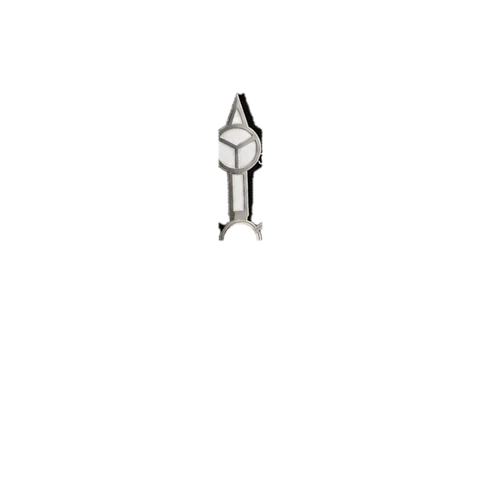
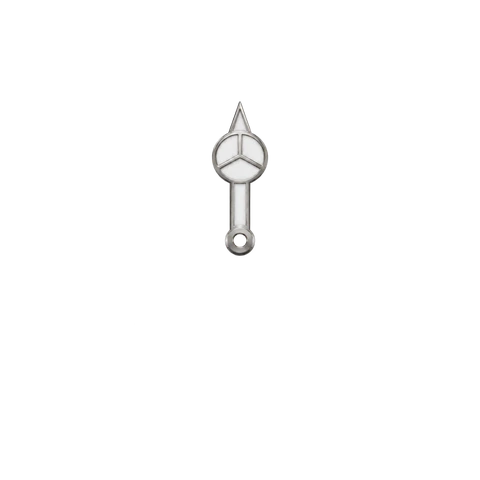
Vetrina: lancette del Submariner generate da ChatGPT
- Ore "Mercedes" e minuti a spada dalle immagini di ChatGPT: foro portato sul
  perno (la lancetta delle ore era spostata di circa 60 px), lunghezze tarate
  sulla foto (minuti fino agli indici, ore a 0,58 del raggio).
- Perno centrale più piccolo, così si vedono gli anelli delle lancette.
- Originali in VETRINA/ come archivio.

Claude-Session: https://claude.ai/code/session_01NCWZ2EgAfWjoZpzfAus64N

Changed region(s): [[0.4375, 0.1875, 0.5625, 0.5312]]

diff --git a/src/components/LiveHands.tsx b/src/components/LiveHands.tsx
@@ -90,8 +90,9 @@ export default function LiveHands({ style, run, beats = 8, sprites }: { style: H
             <circle cy={-0.6} r={0.048} fill={LUME} stroke="#d9dde1" strokeWidth={0.016} />
             <rect x={-0.016} y={0.12} width={0.032} height={0.12} rx={0.01} fill={STEEL} />
           </g>
-          <circle r={0.075} fill={STEEL} stroke="rgba(0,0,0,0.4)" strokeWidth={0.01} />
-          <circle r={0.028} fill="#6d7277" />
+          {/* perno: con le lancette vere resta piccolo, così si vedono i loro anelli */}
+          <circle r={sprites ? 0.034 : 0.075} fill={STEEL} stroke="rgba(0,0,0,0.4)" strokeWidth={0.008} />
+          <circle r={sprites ? 0.013 : 0.028} fill="#6d7277" />
         </g>
       </svg>
     </span>
